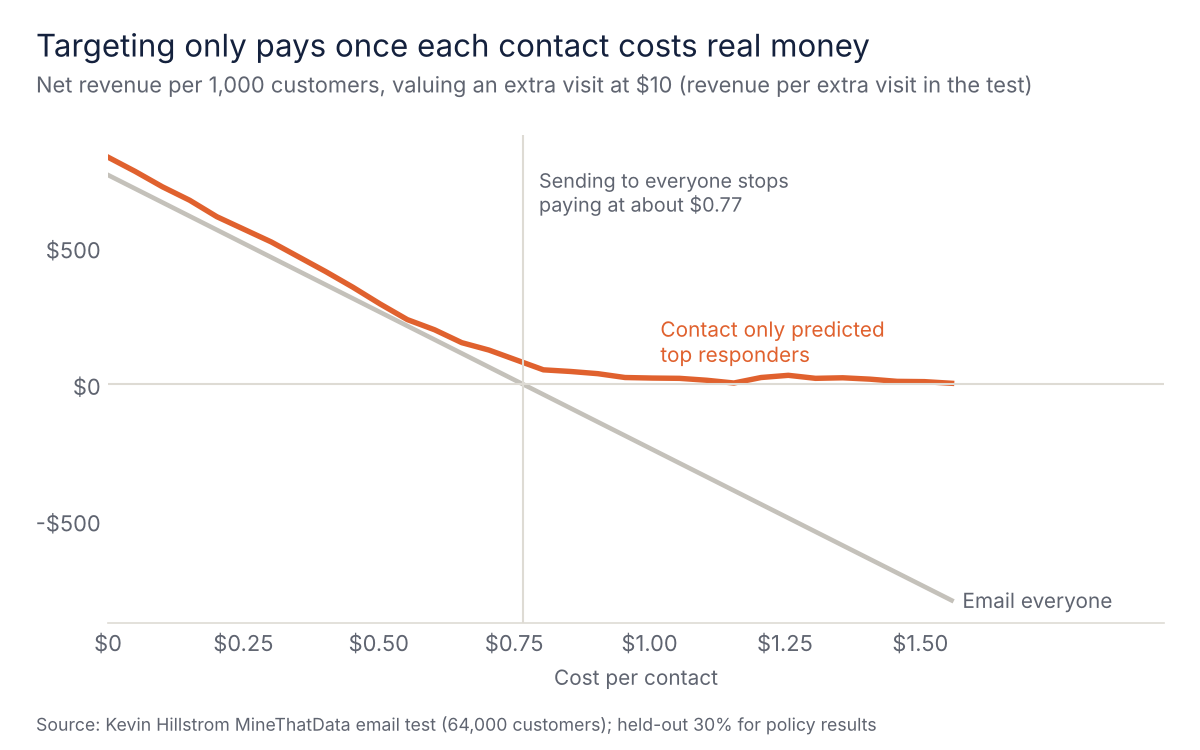
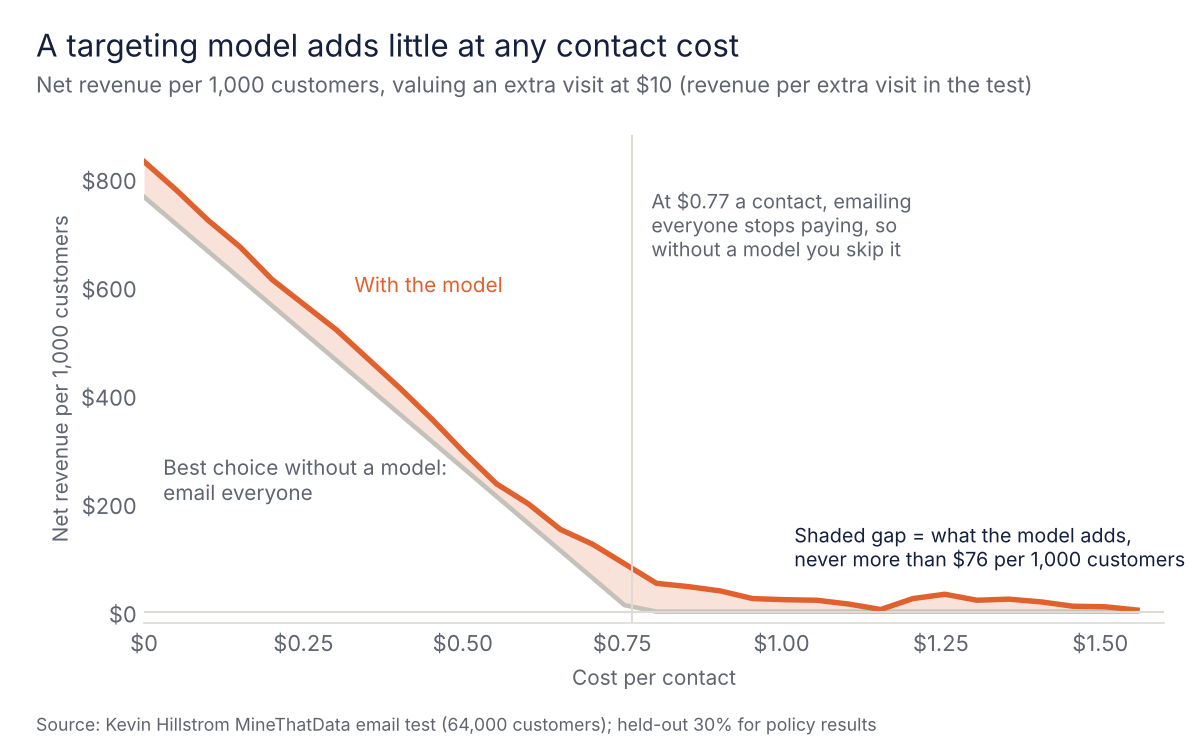
Compare the model with the best choice without one; label the y axis

diff --git a/app.py b/app.py
@@ -39,7 +39,7 @@ st.title("Is personalised targeting worth it?")
 st.write("Explore the results of a randomised email test with 64,000 customers: one group got a men's merchandise "
          "email, one a women's email, and one nothing. Uplift is the extra visits an email caused compared with "
          "sending nothing. The short answer: for email, one well-chosen email to everyone does almost all the work. "
-         "Targeting starts to pay once each contact costs real money. [Read the full analysis](https://github.com/ekene-ok/campaign-uplift-targeting)")
+         "A targeting model only earns its keep once a mass send stops paying. [Read the full analysis](https://github.com/ekene-ok/campaign-uplift-targeting)")
 
 # Section 2: is targeting worth it?
 st.header("1. Is targeting worth it for your channel?")
@@ -58,14 +58,16 @@ tgt = np.interp(ratio, r, be["net_visits_targeted"]) if ratio <= r.max() else 0.
 share = np.interp(ratio, r, be["share_contacted"]) if ratio <= r.max() else 0.0
 blanket = BLANKET_VISITS - ratio * 1000
 net_all, net_tgt = blanket * value, tgt * value
+no_model = max(net_all, 0.0)  # without a model: email everyone, or skip the campaign once that loses money
 def money(x):
     return f"-${abs(x):,.0f}" if x < 0 else f"${x:,.0f}"
 
 # Targeting is the call only when it leaves a real share of customers out AND clearly beats contacting everyone
-best_is_target = 0.02 <= share < 0.9 and net_tgt - net_all > 20
+best_is_target = 0.02 <= share < 0.9 and net_tgt - no_model > 20
 n1, n2, n3 = st.columns(3)
-n1.metric("Net value, contact everyone (per 1,000)", money(net_all))
-n2.metric("Net value, contact predicted responders (per 1,000)", money(net_tgt))
+n1.metric("Best without a model (per 1,000)", money(no_model),
+          help="Contact everyone while that pays; otherwise skip the campaign.")
+n2.metric("With the model (per 1,000)", money(net_tgt))
 n3.metric("Share of customers worth contacting", f"{share:.0%}")
 if best_is_target:
     st.success(f"Target. At ${cost:.2f} a contact, contact only the top {share:.0%} of customers by predicted uplift.")
@@ -77,16 +79,18 @@ else:
 costs = np.linspace(0, 2, 81)
 rr = costs / value
 fig, ax = plt.subplots(figsize=(8, 3.6))
-y_all = (BLANKET_VISITS - rr * 1000) * value
+y_all = np.clip((BLANKET_VISITS - rr * 1000) * value, 0, None)
 y_tgt = np.where(rr <= r.max(), np.interp(rr, r, be["net_visits_targeted"]), 0) * value
+ax.fill_between(costs, y_all, y_tgt, where=y_tgt >= y_all, color=HL, alpha=0.18, linewidth=0)
 ax.plot(costs, y_all, color=b.CONTEXT, linewidth=2.2)
 ax.plot(costs, y_tgt, color=HL, linewidth=2.6)
 ax.axhline(0, color=b.HAIRLINE, linewidth=1)
-ax.scatter([cost], [net_tgt if best_is_target else net_all], color=b.INK, s=40, zorder=3)
-ax.text(costs[-1] + 0.03, y_all[-1], "Contact everyone", va="center", fontsize=9, color=b.MUTED)
-ax.text(costs[-1] + 0.03, y_tgt[-1], "Contact predicted\nresponders", va="center", fontsize=9, color=HL)
-ax.set_xlim(0, 2.45)
+ax.scatter([cost], [net_tgt if best_is_target else no_model], color=b.INK, s=40, zorder=3)
+ax.text(0.04, max(y_all[0], y_tgt[0]) * 0.2, "Without a model:\ncontact everyone,\nor skip once it loses money", va="center", fontsize=9, color=b.MUTED)
+ax.text(costs[12] + 0.06, y_tgt[12] + max(y_tgt[0], 1) * 0.08, "With the model", va="bottom", fontsize=9, color=HL)
+ax.set_xlim(0, 2.0)
 ax.set_xlabel("Cost per contact", color=b.MUTED)
+ax.set_ylabel("Net value per 1,000 customers", color=b.MUTED, fontsize=9)
 b.clean(ax, keep="x")
 from matplotlib.ticker import FuncFormatter
 ax.xaxis.set_major_formatter(FuncFormatter(lambda x, _: f"${x:.2f}"))
@@ -95,8 +99,8 @@ ax.tick_params(axis="y", labelsize=9)
 ax.set_title("Net value per 1,000 customers as the cost per contact rises", loc="left", fontsize=12, color=b.INK)
 chart_col, _ = st.columns([3, 2])
 chart_col.pyplot(fig)
-st.caption(f"Contacting everyone stops paying once a contact costs more than about {BLANKET_VISITS / 10:.1f}% of an "
-           "extra visit's value. Results are measured on the held-out 30% of customers using the random assignment.")
+st.caption(f"Without a model, you contact everyone until a contact costs more than about {BLANKET_VISITS / 10:.1f}% of an "
+           "extra visit's value, then skip the campaign. The shaded gap is what the model adds. Results are measured on the held-out 30% of customers using the random assignment.")
 
 # Section 1: segment explorer
 st.header("2. Which email works for which customers?")

diff --git a/scripts/make_charts.py b/scripts/make_charts.py
@@ -36,32 +36,38 @@ b.headline(fig, "One email does almost all the work",
 b.source(fig, SRC)
 b.finish(fig, OUT / "01_one_email_does_the_work.png", top=0.80, bottom=0.12, left=0.33)
 
-# Chart 2: targeting pays only once contacts cost real money ----------------------------------
+# Chart 2: what a targeting model adds over the best choice without one ----------------------
 be = pd.read_csv(RES / "breakeven_curve.csv")
 v = float(pd.read_csv(RES / "value_per_visit.csv").iloc[0, 0])
 be["cost"] = be.cost_per_contact_in_visits * v
 be = be[be.cost <= 1.6]
+be["no_model"] = be.net_visits_send_all.clip(lower=0) * v   # email everyone, or skip the campaign once that loses money
+be["model"] = be.net_visits_targeted * v
+cross = be.iloc[0].net_visits_send_all / 1000 * v
+gap = (be.model - be.no_model).max()
 fig, ax = b.figure(8, 5)
-ax.plot(be.cost, be.net_visits_send_all * v, color=b.CONTEXT, linewidth=2.2)
-ax.plot(be.cost, be.net_visits_targeted * v, color=HL, linewidth=2.6)
-ax.axhline(0, color=b.HAIRLINE, linewidth=1)
-cross = be.iloc[0].net_visits_send_all / 1000 * v  # average extra visits per contact x value per visit
+ax.fill_between(be.cost, be.no_model, be.model, where=be.model >= be.no_model, color=HL, alpha=0.18, linewidth=0)
+ax.plot(be.cost, be.no_model, color=b.CONTEXT, linewidth=2.2)
+ax.plot(be.cost, be.model, color=HL, linewidth=2.6)
 ax.axvline(cross, color=b.HAIRLINE, linewidth=1)
-ax.text(cross + 0.03, be.net_visits_targeted.max() * v * 0.95, f"Sending to everyone stops\npaying at about ${cross:.2f}",
+ax.text(cross + 0.03, 780, f"At ${cross:.2f} a contact, emailing\neveryone stops paying, so\nwithout a model you skip it",
         fontsize=9.5, color=b.MUTED, va="top")
-end = be.iloc[-1]
-ax.text(end.cost + 0.02, end.net_visits_send_all * v, "Email everyone", va="center", fontsize=10, color=b.MUTED)
-ax.text(1.02, be[be.cost.between(0.95, 1.05)].net_visits_targeted.mean() * v + 40,
-        "Contact only predicted\ntop responders", va="bottom", fontsize=10, color=HL)
-ax.set_xlim(0, 1.95)
+ax.text(0.33, 590, "With the model", fontsize=10, color=HL, ha="left")
+ax.text(0.03, 290, "Best choice without a model:\nemail everyone", fontsize=10, color=b.MUTED, ha="left", va="top")
+ax.text(1.02, 75, f"Shaded gap = what the model adds,\nnever more than ${gap:.0f} per 1,000 customers",
+        fontsize=9.5, color=b.INK, va="bottom")
+ax.set_xlim(0, 1.6)
+ax.set_ylim(-20, 880)
 ax.set_xticks([0, 0.25, 0.5, 0.75, 1.0, 1.25, 1.5])
 ax.set_xticklabels(["$0", "$0.25", "$0.50", "$0.75", "$1.00", "$1.25", "$1.50"])
-ax.set_yticks([-500, 0, 500])
-ax.set_yticklabels(["-$500", "$0", "$500"])
+ax.set_yticks([0, 200, 400, 600, 800])
+ax.set_yticklabels(["$0", "$200", "$400", "$600", "$800"])
 ax.set_xlabel("Cost per contact", color=b.MUTED, fontsize=10)
+ax.set_ylabel("Net revenue per 1,000 customers", color=b.MUTED, fontsize=10)
 b.clean(ax, keep="x")
-b.headline(fig, "Targeting only pays once each contact costs real money",
+ax.axhline(0, color=b.HAIRLINE, linewidth=1)
+b.headline(fig, "A targeting model adds little at any contact cost",
            f"Net revenue per 1,000 customers, valuing an extra visit at ${v:.0f} (revenue per extra visit in the test)")
 b.source(fig, SRC)
-b.finish(fig, OUT / "02_when_targeting_pays.png", top=0.82, bottom=0.17, left=0.09)
+b.finish(fig, OUT / "02_when_targeting_pays.png", top=0.82, bottom=0.17, left=0.12)
 print("charts saved")

diff --git a/README.md b/README.md
@@ -16,11 +16,11 @@ The key idea is **uplift**: the value of an email is the extra behaviour it caus
 
 ## The answer
 
-**For email, no. Send one email, the men's, to everyone. Targeting only pays once each contact costs real money.**
+**For email, no. Send one email, the men's, to everyone. A targeting model adds little at any contact cost; its one real use is finding a small group still worth contacting once a mass send stops paying.**
 
 1. **One email does almost all the work.** Sending everyone the men's email produced 76 extra visits per 1,000 customers. Letting the model choose each customer's email added only 6 more, and the 95% interval (-1 to +13) includes zero. A second creative and a targeting model are not worth building for this channel
 2. **The women's email is never the clear winner.** It ties the men's email for women-only buyers (+7.4 vs +7.1 points of visits) and barely moves men-only buyers (+1.1 points against +6.9), who are 45% of the file
-3. **Targeting pays once a contact costs more than about 7.6% of what an extra visit is worth.** That is the point where contacting everyone stops covering its cost. With the test's revenue of about $10 per extra visit, the line sits near **$0.77 per contact**: irrelevant for email, decisive for direct mail, discounts or sales calls. At $0.90 per contact, contacting everyone loses $134 per 1,000 customers, while contacting only the top 30% by predicted uplift still earns $39
+3. **The model's edge is small at every contact cost.** Without a model, the best choice is to email everyone while a contact costs less than about **$0.77** (7.6% of what an extra visit is worth) and to skip the campaign above that. The model beats that choice by at most **$76 per 1,000 customers** at any cost, and part of that gain may be noise. Its one clear use is above $0.77, where a mass send no longer pays but a small group still does: at $0.90 per contact, the top 30% by predicted uplift earns $39 per 1,000 customers instead of nothing. That matters for direct mail, discounts or sales calls, not email
 4. **Decide on visits, not spend.** The men's email beat the women's on visits by 3.1 points (95% interval 2.4 to 3.8). The spend gap ($0.35 per customer, interval -$0.04 to +$0.72) could be noise, because only about 1% of customers buy
 
 **What would change the answer:** a test with more distinct creatives (where picking the right message matters more), real contact costs such as unsubscribes and fatigue, or valuing a visit by profit instead of revenue, which moves the break-even point lower (at a 40% margin, about $0.31 per contact).
@@ -29,7 +29,7 @@ The key idea is **uplift**: the value of an email is the extra behaviour it caus
 
 ![One email does almost all the work](charts/01_one_email_does_the_work.png)
 
-![Targeting only pays once each contact costs real money](charts/02_when_targeting_pays.png)
+![A targeting model adds little at any contact cost](charts/02_when_targeting_pays.png)
 
 ## Results
 
